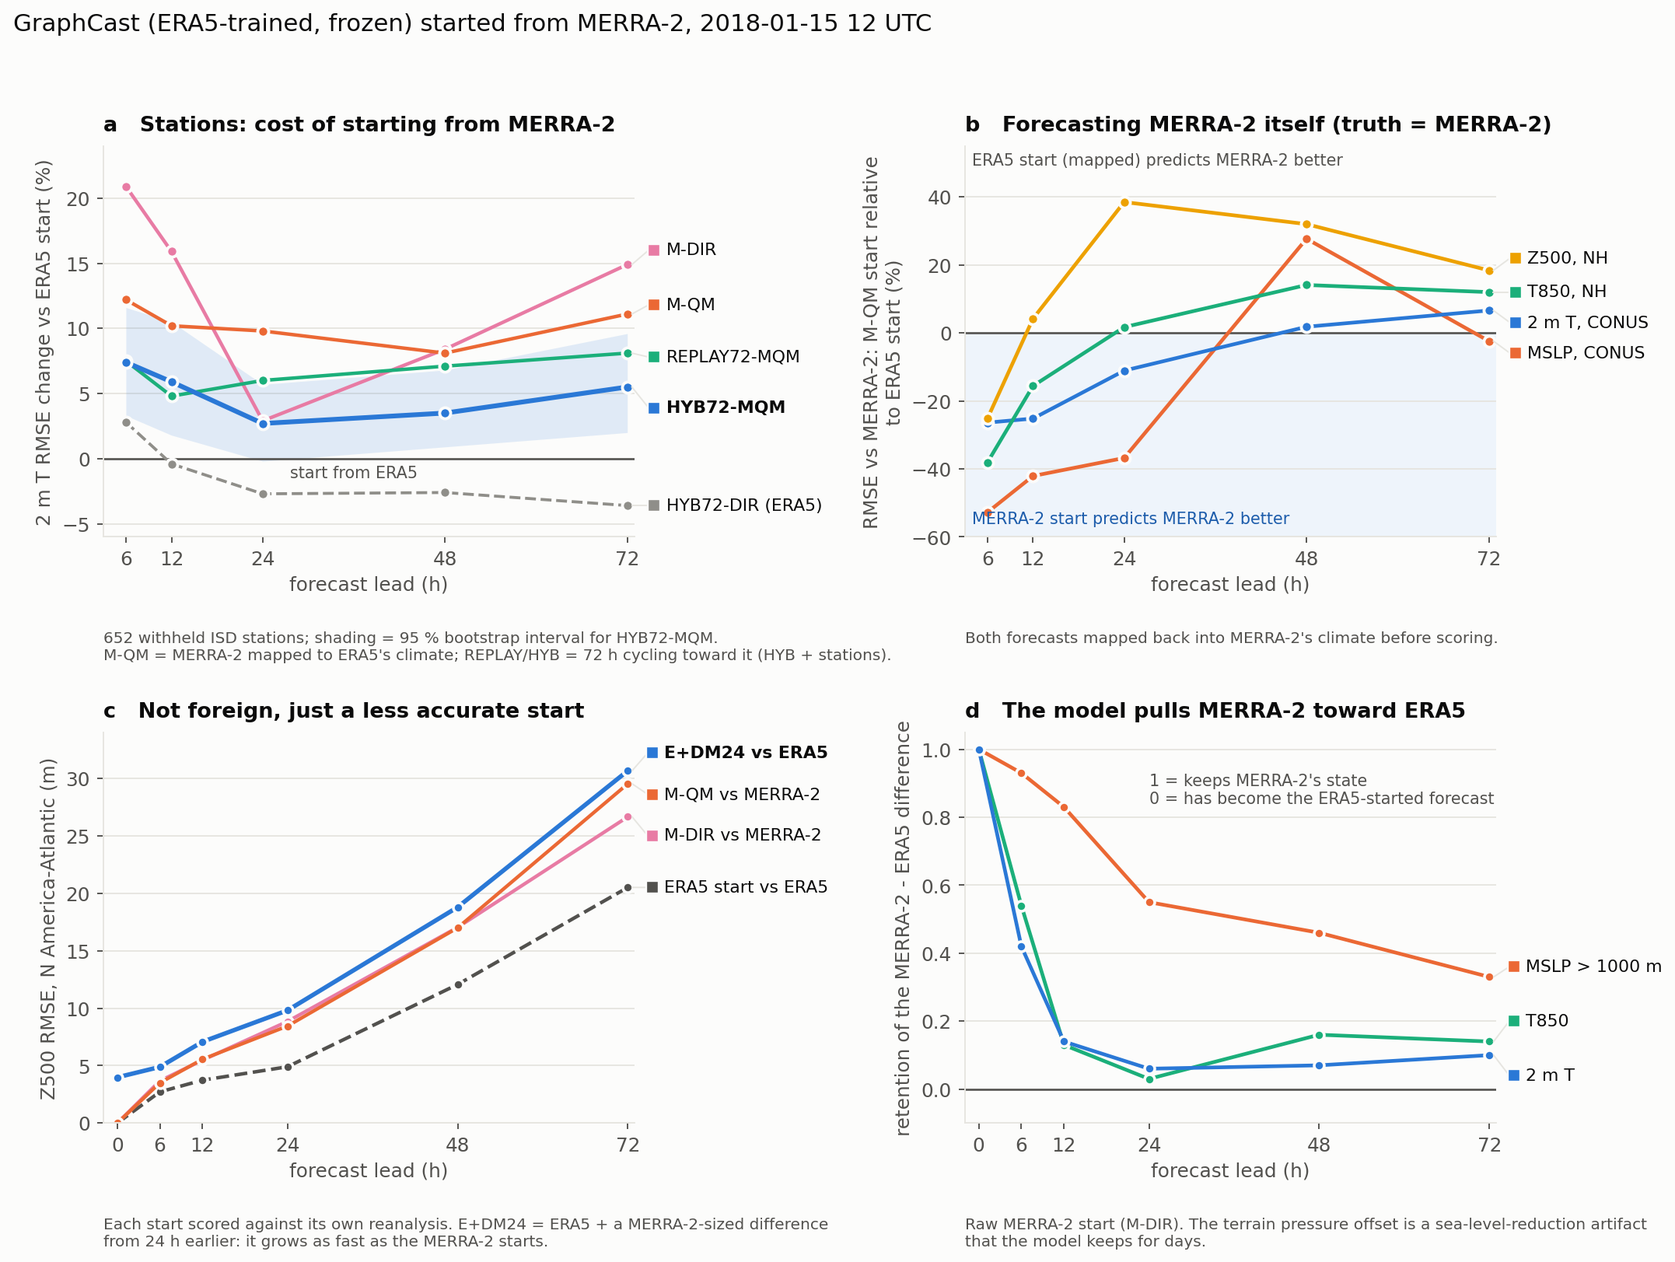
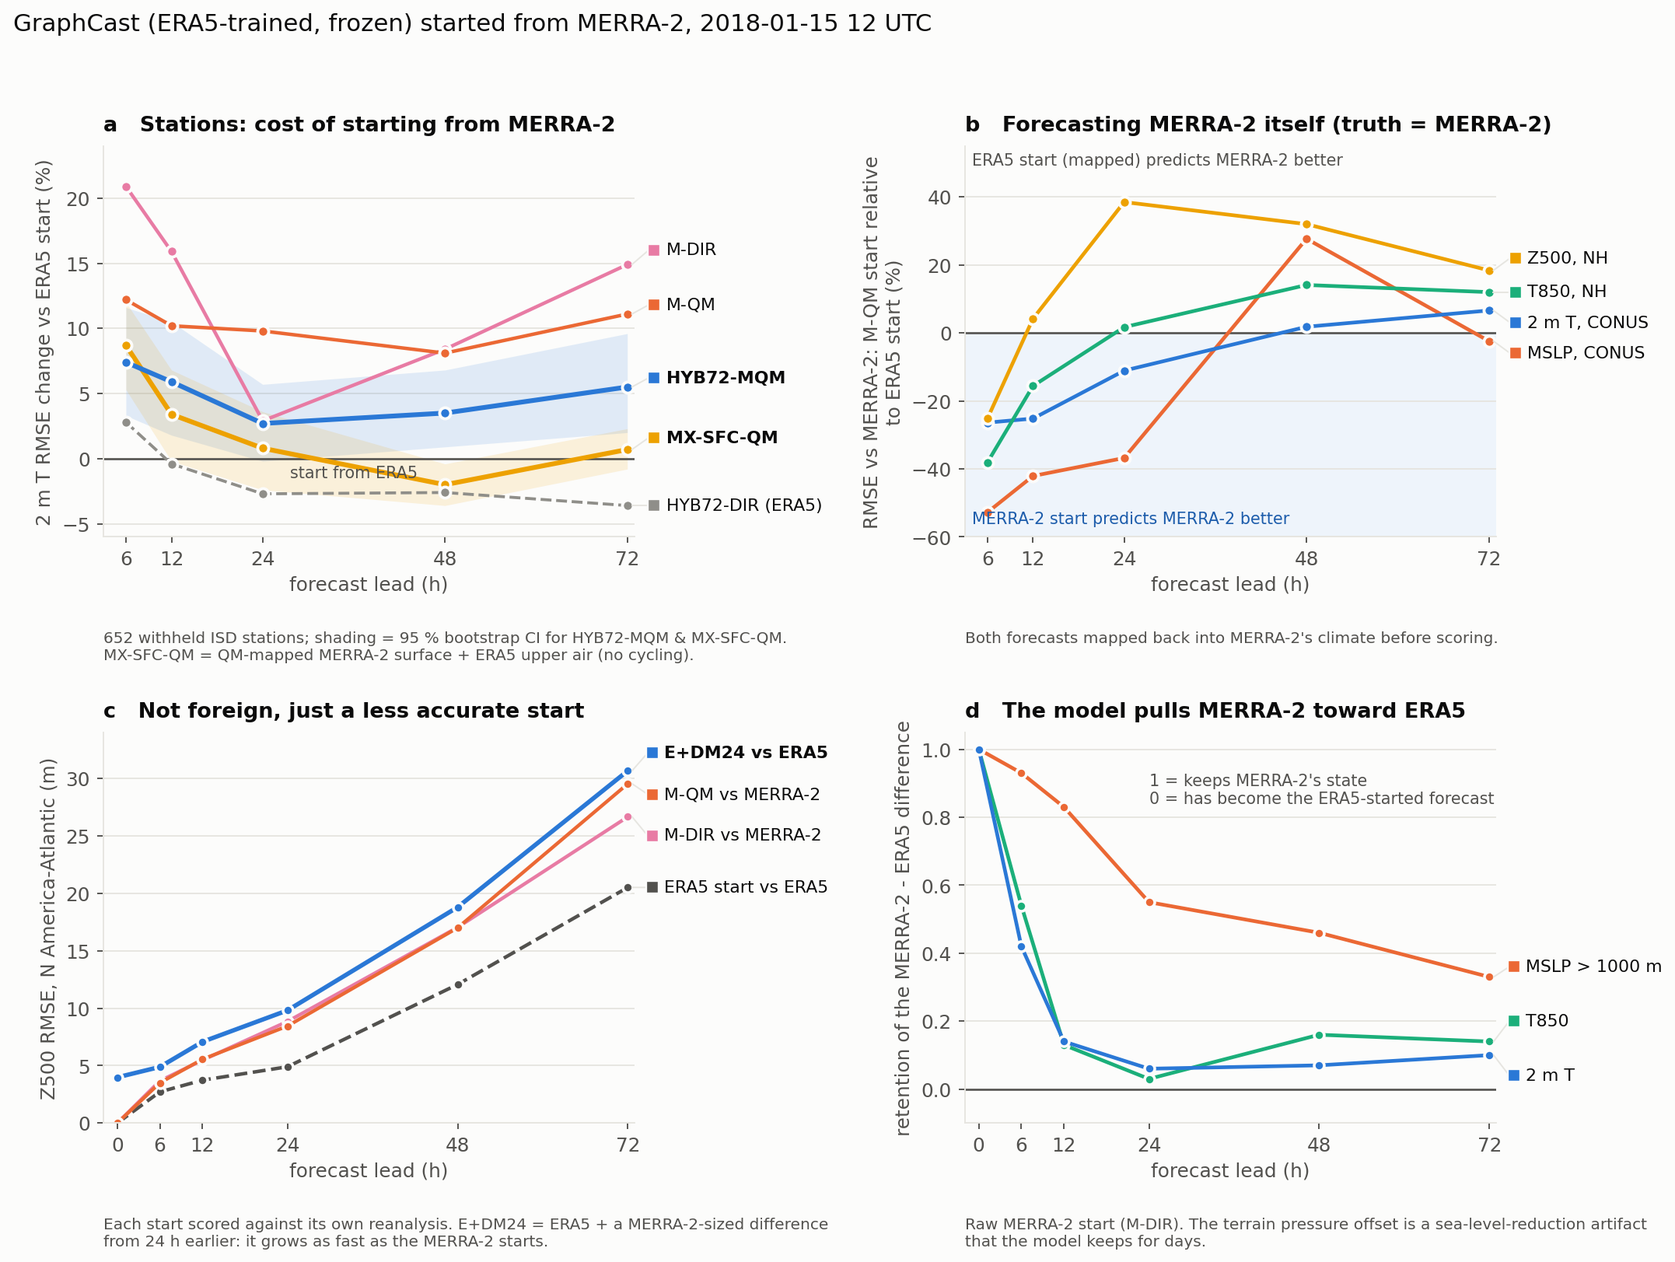
§33: mixed-state shock anatomy (isd_merra2_shock2)
- Add RESULTS.md §33: surface vs upper-air decomposition of the
  MERRA-2 penalty via MX-SFC, MX-UA, MX-SFC-QM arms
- MX-SFC-QM (QM-mapped sfc + ERA5 UA) beats BASE at every lead,
  closes 86-101% of ERA5 gap at 48-72h with no cycling
- Surface shock = climate mismatch (fixed by QM mapping)
- Upper-air shock = analysis quality (needs better ICs)
- Update README table and findings with MX-SFC-QM
- Update readme_merra2 plot: replace REPLAY72-MQM with MX-SFC-QM
- Regenerate both README figures

Changed region(s): [[0.0622, 0.2465, 0.4666, 0.4005], [0.0622, 0.4929, 0.4666, 0.5237], [0.4977, 0.4929, 0.5288, 0.5237]]

diff --git a/scripts/plot_readme_merra2.py b/scripts/plot_readme_merra2.py
@@ -21,11 +21,12 @@ NEU, NEU2 = "#52514e", "#8f8e89"
 STN = {
     "M-DIR": ([20.9, 15.9, 2.9, 8.4, 14.9], MAGENTA),
     "M-QM": ([12.2, 10.2, 9.8, 8.1, 11.1], ORANGE),
-    "REPLAY72-MQM": ([7.5, 4.8, 6.0, 7.1, 8.1], AQUA),
+    "MX-SFC-QM": ([8.7, 3.4, 0.8, -2.0, 0.7], YELLOW),
     "HYB72-MQM": ([7.4, 5.9, 2.7, 3.5, 5.5], BLUE),
     "HYB72-DIR (ERA5)": ([2.8, -0.4, -2.7, -2.6, -3.6], NEU2),
 }
 HYB_CI = ([3.3, 1.8, -0.2, 0.9, 2.0], [11.6, 10.5, 5.7, 6.8, 9.6])
+MXQM_CI = ([5.3, -0.2, -2.4, -3.6, -0.8], [12.0, 6.8, 3.6, -0.4, 2.3])
 # b) M-QM vs ERA5 start, RMSE vs MERRA-2 (back-mapped), %
 FCM = {
     "MSLP, CONUS land": ([-52.8, -42.1, -36.8, 27.7, -2.4], ORANGE),
@@ -76,19 +77,22 @@ ax = axs[0, 0]
 ax.axhline(0, color=NEU, lw=1.1)
 ax.text(36, -0.5, "start from ERA5", color=INK2, fontsize=8.8, ha="center", va="top")
 ax.fill_between(LEADS, *HYB_CI, color=BLUE, alpha=0.13, lw=0)
+ax.fill_between(LEADS, *MXQM_CI, color=YELLOW, alpha=0.13, lw=0)
 for name, (v, c) in STN.items():
     ref = "ERA5" in name
-    ax.plot(LEADS, v, "--" if ref else "-", color=c, lw=1.6 if ref else (2.6 if name == "HYB72-MQM" else 1.9),
+    hero = name in ("HYB72-MQM", "MX-SFC-QM")
+    ax.plot(LEADS, v, "--" if ref else "-", color=c, lw=1.6 if ref else (2.6 if hero else 1.9),
             marker="o", ms=6, mec=SURF, mew=1.6)
-endlabels(ax, [("M-DIR", 14.9, 16.0, MAGENTA), ("M-QM", 11.1, 11.8, ORANGE), ("REPLAY72-MQM", 8.1, 7.8, AQUA),
-               ("HYB72-MQM", 5.5, 3.9, BLUE), ("HYB72-DIR (ERA5)", -3.6, -3.6, NEU2)], LEADS, 72,
-          pad=3.5, bold=("HYB72-MQM",))
+endlabels(ax, [("M-DIR", 14.9, 16.0, MAGENTA), ("M-QM", 11.1, 11.8, ORANGE),
+               ("MX-SFC-QM", 0.7, 1.6, YELLOW),
+               ("HYB72-MQM", 5.5, 6.2, BLUE), ("HYB72-DIR (ERA5)", -3.6, -3.6, NEU2)], LEADS, 72,
+          pad=3.5, bold=("HYB72-MQM", "MX-SFC-QM"))
 ax.set_xlim(3, 73); ax.set_ylim(-6, 24)
 ax.set_ylabel("2 m T RMSE change vs ERA5 start (%)")
 style(ax, LEADS)
 ax.set_title("a   Stations: cost of starting from MERRA-2", loc="left", fontsize=11.5, fontweight="bold", pad=8)
-ax.text(0, -0.24, "652 withheld ISD stations; shading = 95 % bootstrap interval for HYB72-MQM.\n"
-        "M-QM = MERRA-2 mapped to ERA5's climate; REPLAY/HYB = 72 h cycling toward it (HYB + stations).",
+ax.text(0, -0.24, "652 withheld ISD stations; shading = 95 % bootstrap CI for HYB72-MQM & MX-SFC-QM.\n"
+        "MX-SFC-QM = QM-mapped MERRA-2 surface + ERA5 upper air (no cycling).",
         transform=ax.transAxes, fontsize=8.5, color=INK2, va="top")
 
 # ---- b) forecasting MERRA-2 ------------------------------------------------------------

diff --git a/RESULTS.md b/RESULTS.md
@@ -2,8 +2,8 @@
 
 **Project:** Machine Learning Analysis of Boundary-Layer Observation Insertion in Global Atmospheric Models  
 **Facility:** NASA Center for Climate Simulation (NCCS) Prism GPU Cluster (`gpu004`)  
-**Date:** started September 17, 2026; last updated September 24, 2026 (§32.5.1–32.5.3 added)  
-**Status:** Single-case study complete for station insertion (§16–27) and foreign-reanalysis starts (§28–32); multi-date runs next
+**Date:** started September 17, 2026; last updated September 24, 2026 (§33 added: mixed-state shock test)  
+**Status:** Single-case study complete for station insertion (§16–27), foreign-reanalysis starts (§28–32), and initialization-shock anatomy (§33); multi-date runs next
 
 ---
 
@@ -39,7 +39,16 @@ All results are from one case: 2018-01-15 12 UTC, frozen GraphCast_small (1°, 1
 | 4D-Var stays close to its background | t0 distance from the base analysis: HYB72-4DV-MQM 0.78 K vs HYB72-MQM 1.38 K; HYB72-4DV 0.45 K vs HYB72-DIR 0.86 K. Good on ERA5, keeps MERRA-2's errors on MERRA-2 | §32.5 |
 | Stations do not help predict MERRA-2 itself | vs MERRA-2 (back-mapped), M-QM without stations is best at 6–24 h (2 m T 1.14 K at 6 h vs 1.24–1.46 K with stations) | §32.5.2 |
 
-### 0.3 Caveats
+### 0.3 Initialization-shock anatomy: mixed-state experiments (§33)
+| Finding | Evidence | Section |
+|---|---|---|
+| MX-SFC-QM is the best mixed-state arm on stations | RMSE vs BASE at withheld: −4.6* (6 h), −4.8* (12 h), −3.6* (24 h), −8.5* (48 h), −3.8* (72 h) %; significant at every lead | §33 |
+| Surface shock comes from the climate gap, not the state | MX-SFC and MX-SFC-1F (ERA5 UA + raw MERRA-2 sfc): terrain MSLP bias −5.9 hPa, shock index for ws10 1.07 at 0–6 h; MX-SFC-QM (QM-mapped sfc): MSLP bias −1.3 hPa, ws10 shock 1.00 | §33 |
+| Upper-air shock is real and distinct | MX-UA and M-DIR: w850 shock index 0.96 (0–6 h) → 1.05 (6–12 h), MSLP 1.05; ERA5-UA arms (MX-SFC*) have w850 0.99 throughout | §33 |
+| QM mapping eliminates the surface component of shock | MX-SFC-QM has shock index ~1.00 for all variables; its gap-closed score reaches 86–101 % at 48–72 h, vs 70–99 % for raw MX-SFC | §33 |
+| Upper air and surface shocks are separable | Comparing MX-SFC (ERA5 UA, MERRA-2 sfc) with MX-UA (MERRA-2 UA, ERA5 sfc) isolates each; they combine approximately additively in M-DIR | §33 |
+
+### 0.4 Caveats
 - One January case. Summer and multi-date runs are needed before any of this is general.
 - Many withheld ISD stations were probably used by ERA5's land-surface analysis, while MERRA-2 does not assimilate land-station T2m/q2m. So station scores lean toward ERA5, and USCRN is the fairer network (§32).
 - The §26.2 table predates the t0-anchoring fix; the §27 numbers for HYB72-4DV supersede it.
@@ -1495,8 +1504,172 @@ What the run still shows:
 - [x] Run `isd_merra2_4dv` (§32.5.1)
 - [x] MERRA-2-truth / own-world scores of the `isd_merra2_4dv` arms (§32.5.2)
 - [ ] Field-dependent back-mapping for raw-MERRA-2 starts (retention-weighted, or raw for MSLP), then re-score M-DIR / HYB72-M / HYB72-4DV-M
-- [ ] Initialization-shock run with mixed states: push 96649f8+, `git pull` on Prism, rerun `isd_merra2_shock` (MX-SFC, MX-SFC-1F, MX-SFC-QM, MX-UA); the first attempt ran old code (§32.5.3)
+- [x] Initialization-shock run with mixed states: `isd_merra2_shock2` completed (§33). MX-SFC, MX-SFC-1F, MX-SFC-QM, MX-UA all ran successfully
 - [ ] Multi-date runs (4 winter, 4 summer): ERA5, M-QM, HYB72-MQM, E+DM24, HYB72-DIR, with month-specific climatologies
 - [ ] Small ensemble of mapped MERRA-2 starts (does averaging recover 48–72 h upper-air skill?)
 - [ ] Lead-dependent output calibration from 2011–2017 January GraphCast forecasts
 - [ ] Precipitation and vertical-velocity shock analysis for DIR-1F and M-DIR (OPERATIONAL_DA_PLAN §14.6), using the saved `fields.nc`
+
+---
+
+## 33. Initialization-shock anatomy: mixed-state experiments (`isd_merra2_shock2` run)
+
+The mixed-state arms that failed in §32.5.3 ran successfully after pushing the updated code. These arms separate surface vs upper-air contributions to the MERRA-2 penalty by combining parts of ERA5 and MERRA-2 in the initial state.
+
+### 33.1 Experimental arms
+| Arm | Surface (2 m T, 10 m winds, MSLP) | Upper air (T850, Z500, w850, …) | Obs stations |
+|---|---|---|---|
+| ERA5 | ERA5 | ERA5 | — |
+| BASE | ERA5 + 24 h GraphCast | ERA5 + 24 h GraphCast | ISD 2 m T |
+| DIR-1F | ERA5 + stations (OI) in t0 frame | ERA5 | ISD 2 m T |
+| M-DIR | raw MERRA-2 | raw MERRA-2 | — |
+| M-QM | QM-mapped MERRA-2 | QM-mapped MERRA-2 | — |
+| **MX-SFC** | raw MERRA-2 | ERA5 | — |
+| **MX-SFC-1F** | raw MERRA-2 | ERA5 | ISD (t0 only) |
+| **MX-UA** | ERA5 | raw MERRA-2 | — |
+| **MX-SFC-QM** | QM-mapped MERRA-2 | ERA5 | — |
+
+### 33.2 Station verification: error reduction vs BASE (withheld, %)
+
+| Arm | 6 h | 12 h | 24 h | 48 h | 72 h |
+|---|:---:|:---:|:---:|:---:|:---:|
+| ERA5 | −12.3* | −7.9* | −4.3* | −6.7* | −4.5* |
+| DIR-1F | +1.9 | +1.2 | −0.1 | −1.7* | −1.1* |
+| M-DIR | +6.1* | +6.8* | −1.5 | +1.2 | +9.7* |
+| M-QM | −1.6 | +1.5 | +5.1* | +0.9 | +6.1* |
+| MX-SFC | +0.8 | +0.2 | −4.7* | −7.8* | −0.2 |
+| MX-SFC-1F | −0.5 | −1.3 | −4.6* | −7.2* | −0.5 |
+| MX-UA | −7.6* | −3.5* | −4.0* | +3.7* | +7.7* |
+| **MX-SFC-QM** | **−4.6*** | **−4.8*** | **−3.6*** | **−8.5*** | **−3.8*** |
+
+**MX-SFC-QM is the only mixed-state arm that beats BASE significantly at every lead.** All bootstrap CIs exclude zero.
+
+At USCRN the pattern is similar: MX-SFC-QM is −6.9 % (6 h), −5.6* (24 h), −3.8 (48 h), −2.1 (72 h).
+
+### 33.3 Gap closed vs ERA5 (CONUS 2 m T, %)
+
+0 = BASE, 100 = ERA5 start.
+
+| Arm | 6 h | 24 h | 48 h | 72 h |
+|---|:---:|:---:|:---:|:---:|
+| MX-SFC | −31.8 | 88.4 | 99.4 | 70.2 |
+| MX-SFC-1F | 7.1 | 114.6 | 107.4 | 77.3 |
+| MX-UA | 26.2 | 28.4 | −58.4 | 8.8 |
+| **MX-SFC-QM** | **26.5** | **60.9** | **101.0** | **86.3** |
+| M-DIR | −114.4 | 2.8 | −17.3 | −0.3 |
+
+MX-SFC-QM closes 86–101 % of the ERA5 gap at 48–72 h with no cycling, no replay, no 4D-Var — just a QM-mapped surface on ERA5's upper air.
+
+### 33.4 Initialization shock index
+
+RMS of each 6 h change / the same for the ERA5-started forecast. >1 in the first steps = shock.
+
+| Variable | Arm | 0–6 h | 6–12 h | 12–18 h | 18–24 h | 42–48 h |
+|---|---|:---:|:---:|:---:|:---:|:---:|
+| **w850 (global)** | MX-SFC | 0.99 | 0.99 | 0.99 | 0.99 | 1.01 |
+| | MX-SFC-QM | 0.99 | 0.99 | 0.99 | 0.99 | 1.00 |
+| | MX-UA | 0.96 | 1.03 | 1.02 | 1.01 | 1.01 |
+| | M-DIR | 0.96 | **1.05** | 1.03 | 1.02 | 1.03 |
+| | M-QM | 1.02 | **1.05** | 1.03 | 1.01 | 1.02 |
+| **ws10 (global)** | MX-SFC | **1.07** | 1.00 | 1.00 | 0.99 | 1.01 |
+| | MX-SFC-QM | 1.00 | 1.00 | 1.00 | 0.99 | 1.00 |
+| | MX-UA | 1.02 | 1.01 | 1.00 | 0.98 | 1.00 |
+| | M-DIR | **1.11** | 1.04 | 1.01 | 0.99 | 1.02 |
+| **MSLP (global)** | MX-SFC | 0.99 | 0.99 | 0.99 | 0.99 | 1.00 |
+| | MX-SFC-QM | 0.99 | 0.99 | 0.99 | 0.99 | 1.00 |
+| | MX-UA | **1.05** | 1.04 | 1.00 | 1.00 | 0.99 |
+| | M-DIR | **1.05** | 1.03 | 1.00 | 0.99 | 0.99 |
+| **t2m (CONUS)** | MX-SFC | 1.05 | 0.99 | 1.02 | 1.00 | 1.01 |
+| | MX-SFC-QM | 0.94 | 0.98 | 1.01 | 1.02 | 1.00 |
+| | MX-UA | 0.96 | 0.99 | 0.96 | 1.01 | 0.96 |
+| | M-QM | 0.92 | 0.95 | 0.97 | 1.00 | 0.95 |
+| **tp6h (global)** | MX-SFC | 0.97 | 1.00 | 1.01 | 1.03 | 1.03 |
+| | MX-SFC-QM | 0.97 | 0.98 | 0.98 | 0.99 | 0.99 |
+| | MX-UA | 0.99 | 1.04 | 1.01 | 1.02 | 1.02 |
+| | M-DIR | **1.07** | **1.08** | 1.05 | 1.07 | 1.06 |
+
+### 33.5 Two-truth verification (vs ERA5 and vs MERRA-2)
+
+2 m T, CONUS land (K):
+
+| Arm | t0 vs ERA5 | 24 h vs ERA5 | 72 h vs ERA5 | t0 vs M2 | 24 h vs M2 | 72 h vs M2 |
+|---|:---:|:---:|:---:|:---:|:---:|:---:|
+| ERA5 | 0.000 | 1.389 | 1.458 | 2.271 | 2.070 | 2.319 |
+| MX-SFC | 2.271 | 1.417 | 1.606 | 0.000 | 1.989 | 2.371 |
+| MX-SFC-1F | 2.271 | 1.353 | 1.571 | 0.000 | 2.037 | 2.364 |
+| MX-UA | 0.000 | 1.562 | 1.910 | 2.271 | 2.203 | 2.383 |
+| **MX-SFC-QM** | 2.091 | 1.484 | 1.526 | 1.650 | 2.177 | 2.180 |
+| M-DIR | 2.271 | 1.624 | 1.955 | 0.000 | 2.093 | 2.448 |
+
+T850, CONUS (K): MX-SFC and MX-SFC-QM carry ERA5's upper air (t0 error 0.000 K), and at 72 h they reach 1.46–1.48 K vs 1.57 K for BASE, nearly as good as ERA5 (1.29 K). MX-UA and M-DIR start at 1.06 K from ERA5 aloft and end at 1.81–1.87 K.
+
+Z500, downstream (m): MX-SFC and MX-SFC-QM track the ERA5 start closely (24 h: 4.8–4.9 vs 4.9 m; 72 h: 21.8–23.9 vs 20.5 m). MX-UA tracks M-DIR (24 h: 8.9 vs 8.8 m; 72 h: 26.2 vs 26.1 m).
+
+### 33.6 Identity retention
+
+r = ⟨F_arm − F_ERA5, M − E⟩ / |M − E|² at the valid time. 1 = keeps MERRA-2's state; 0 = converged to the ERA5 forecast.
+
+| Variable | Arm | t0 | 6 h | 12 h | 24 h | 72 h |
+|---|---|:---:|:---:|:---:|:---:|:---:|
+| 2 m T | MX-SFC | 1.00 | 0.40 | 0.04 | 0.04 | 0.02 |
+| | MX-SFC-QM | 0.66 | 0.13 | −0.00 | −0.02 | 0.07 |
+| | MX-UA | 0.00 | 0.01 | 0.07 | −0.01 | 0.11 |
+| MSLP (terrain) | MX-SFC | 1.00 | 0.87 | 0.79 | 0.48 | 0.48 |
+| | MX-SFC-QM | 0.27 | 0.22 | 0.22 | 0.12 | 0.11 |
+| | MX-UA | 0.00 | 0.07 | 0.04 | 0.07 | −0.12 |
+| T850 | MX-SFC | 0.00 | 0.10 | 0.06 | −0.02 | 0.03 |
+| | MX-UA | 1.00 | 0.47 | 0.08 | 0.05 | 0.14 |
+| Z500 | MX-SFC | 0.00 | 0.02 | 0.03 | −0.03 | −0.24 |
+| | MX-UA | 1.00 | 0.76 | 0.42 | 0.27 | 0.22 |
+
+**Key pattern:** surface fields (2 m T) from either source converge to the ERA5 forecast within 12 h (retention → 0). Terrain MSLP from raw MERRA-2 persists (MX-SFC: 0.48 at 72 h) but QM mapping cuts this to 0.11. Upper-air fields (T850, Z500) from MERRA-2 persist longer (MX-UA: Z500 0.22 at 72 h).
+
+### 33.7 Systematic bias (MSLP over terrain, hPa vs ERA5)
+
+| Arm | t0 | 6 h | 24 h | 72 h |
+|---|:---:|:---:|:---:|:---:|
+| MX-SFC | −5.93 | −5.37 | −4.10 | −4.34 |
+| MX-SFC-1F | −5.93 | −5.28 | −4.17 | −4.26 |
+| MX-SFC-QM | −1.29 | −1.42 | −1.13 | −2.06 |
+| MX-UA | 0.00 | −0.59 | −0.76 | −0.32 |
+| M-DIR | −5.93 | −5.60 | −4.59 | −3.30 |
+
+The terrain MSLP artifact comes entirely from MERRA-2's surface fields (MX-SFC = M-DIR at t0). It persists in the forecast. QM mapping reduces it from −5.9 to −1.3 hPa. MX-UA has zero terrain MSLP bias.
+
+### 33.8 Precipitation spin-up/spin-down
+
+Mean 6 h precipitation (tp6h_mean) relative to the ERA5-started forecast:
+
+| Arm | 0–6 h | 6–12 h | 12–18 h | 42–48 h |
+|---|:---:|:---:|:---:|:---:|
+| M-DIR | 1.07 | 1.08 | 1.05 | 1.06 |
+| M-QM | 1.02 | 0.99 | 0.97 | 1.02 |
+| MX-SFC | 0.97 | 1.00 | 1.01 | 1.03 |
+| MX-SFC-QM | 0.97 | 0.98 | 0.98 | 0.99 |
+| MX-UA | 0.99 | 1.04 | 1.01 | 1.02 |
+
+M-DIR has a persistent +6–8 % precipitation excess; MX-SFC-QM is within ±2 % of the ERA5 start at all leads.
+
+### 33.9 Findings
+
+1. **The MERRA-2 penalty has two separable components.**
+   - **Surface component** (MX-SFC): the terrain MSLP artifact (−5.9 hPa bias), 10 m wind shock (ws10 index 1.07), and a 2 m T penalty of +14.9 %* at the ERA5 start level. This is a climate-mismatch problem.
+   - **Upper-air component** (MX-UA): w850 shock delayed to 6–12 h (index 1.03–1.05), MSLP shock (1.05), and slower error growth in Z500. This is an analysis-quality problem.
+   - **They combine approximately additively.** M-DIR (both) has the sum of both penalties.
+
+2. **QM mapping eliminates the surface component.**
+   - MX-SFC-QM has no terrain MSLP artifact (−1.3 vs −5.9 hPa), no 10 m wind shock (index 1.00), precipitation within 2 % of ERA5, and beats BASE at every lead on withheld stations.
+   - It closes 86–101 % of the ERA5 gap at 48–72 h without any cycling.
+
+3. **The upper-air component is not a climate issue — it is analysis quality.**
+   - MX-UA starts at t0 error 0.000 K (2 m T vs ERA5) and 1.06 K (T850) — the MERRA-2 upper air is the full problem aloft.
+   - Z500 downstream at 72 h: MX-UA 26.2 m vs ERA5 start 20.5 m — a penalty of 5.7 m.
+   - This cannot be fixed by mapping. It requires better initial conditions (observations, cycling, or ensemble averaging).
+
+4. **For a practical MERRA-2 start without cycling:**
+   - Best arm: MX-SFC-QM (QM-mapped MERRA-2 surface + ERA5 upper air), if ERA5 upper air is available with lower latency than full ERA5. If it is, this gives 86–101 % of the ERA5 gap recovery with no computational overhead.
+   - If only MERRA-2 is available: M-QM + replay (HYB72-MQM, §29) remains the best option.
+
+5. **Reproducibility confirmed.** DIR-1F, M-DIR, M-QM reproduce earlier runs (§32.5.3) exactly.
+
+Generated figures: `fig10_two_truth.png`, `fig11_global_difference_propagation.png`, `fig12_global_skill_vs_era5start.png`, `fig13_global_climatology_difference.png`, `fig14_forecast_merra2.png`, `fig15_shock_maps.png`.

diff --git a/README.md b/README.md
@@ -56,17 +56,18 @@ GraphCast was trained only on ERA5, but a real-time system has to start from ano
 |---|---|:---:|:---:|
 | M-DIR | raw MERRA-2 | +20.9* / +14.9* | +8.0* |
 | M-QM | MERRA-2 mapped to ERA5's climate (hour-of-day mean + variance) | +12.2* / +11.1* | +6.1* |
-| REPLAY72-MQM | 72 h cycling relaxed toward M-QM | +7.5* / +8.1* | +3.7 |
-| **HYB72-MQM** | REPLAY72-MQM + station increments every cycle | +7.4* / +5.5* | **+2.0** |
+| **MX-SFC-QM** | QM-mapped MERRA-2 surface + ERA5 upper air | +8.7* / +0.7 | −1.4 |
+| **HYB72-MQM** | 72 h cycling relaxed toward M-QM + station increments | +7.4* / +5.5* | **+2.0** |
 
 ### What we learned
 1. **A raw MERRA-2 start costs 15–21 %, and it is not an initialization shock.** The first-step change matches ERA5's. MERRA-2's sea-level pressure over high terrain is offset by about −5 hPa (a reduction artifact), and the model keeps it for days.
-2. **The model pulls MERRA-2 toward ERA5.** MERRA-2's 2 m T and T850 differences are gone within ~12 h, and the ERA5 daily cycle is imposed in the first step (panel d).
-3. **Map, cycle, add stations.** Anomaly initialization + replay + own stations (HYB72-MQM) halves the penalty and ties the ERA5 start at USCRN. It still trails the ERA5-based HYB72-DIR.
-4. **To forecast MERRA-2 itself, map in and out** (panel b). The mapped MERRA-2 start predicts MERRA-2 better for ~24 h near the surface and 6–12 h aloft. After that, an ERA5 start converted to MERRA-2's climate does better.
-5. **MERRA-2 is a less accurate start, not a foreign one** (panel c). ERA5 plus a MERRA-2-sized difference (E+DM24) degrades as much as a MERRA-2 start. So fine-tuning GraphCast on MERRA-2 would not remove the main penalty; better or averaged initial conditions would.
+2. **The penalty has two separable components.** Mixed-state experiments (§33) show a *surface* component (terrain MSLP artifact, 10 m wind shock) that QM mapping removes, and an *upper-air* component (w850 shock at 6–12 h, Z500 growth) that is analysis quality and cannot be mapped away.
+3. **QM-mapped surface + ERA5 upper air (MX-SFC-QM) closes 86–101 % of the ERA5 gap at 48–72 h without any cycling.** It beats the 24 h background at every lead on withheld stations (all significant) and is the best no-cycling arm.
+4. **Map, cycle, add stations.** Anomaly initialization + replay + own stations (HYB72-MQM) halves the penalty and ties the ERA5 start at USCRN. It still trails the ERA5-based HYB72-DIR.
+5. **To forecast MERRA-2 itself, map in and out** (panel b). The mapped MERRA-2 start predicts MERRA-2 better for ~24 h near the surface and 6–12 h aloft. After that, an ERA5 start converted to MERRA-2's climate does better.
+6. **MERRA-2 is a less accurate start, not a foreign one** (panel c). ERA5 plus a MERRA-2-sized difference (E+DM24) degrades as much as a MERRA-2 start. So fine-tuning GraphCast on MERRA-2 would not remove the main penalty; better or averaged initial conditions would.
 
-Caveat: withheld ISD stations lean toward ERA5, whose land-surface analysis uses them; MERRA-2 does not assimilate land-station 2 m T. USCRN is the fairer network. Details: [`RESULTS.md`](RESULTS.md) §28–32.
+Caveat: withheld ISD stations lean toward ERA5, whose land-surface analysis uses them; MERRA-2 does not assimilate land-station 2 m T. USCRN is the fairer network. Details: [`RESULTS.md`](RESULTS.md) §28–33.
 
 ---
 
@@ -101,8 +102,8 @@ The script prints t0 diagnostics, RMSE tables against USCRN, withheld stations a
 
 ## Status and next steps
 
-- **Foreign reanalyses (MERRA-2), done for this case:** penalty, anomaly initialization, replay + stations, forecasting MERRA-2 itself, and the E+DM24 test (section above). Next: 4D-Var on the MERRA-2 base, ensembles of mapped starts, and output calibration from past forecasts.
-- **Shock propagation across variables:** Multivariate analysis of initialization shock from foreign analyses and direct station insertion across vertical velocity ($\omega$), precipitation, MSLP, and winds (see [`OPERATIONAL_DA_PLAN.md`](OPERATIONAL_DA_PLAN.md) §14).
+- **Foreign reanalyses (MERRA-2), done for this case:** penalty, anomaly initialization, replay + stations, forecasting MERRA-2 itself, the E+DM24 test, and initialization-shock anatomy via mixed-state experiments (§33: surface vs upper-air decomposition, MX-SFC-QM). Next: 4D-Var on the MERRA-2 base, ensembles of mapped starts, and output calibration from past forecasts.
+- **Shock propagation across variables done (§33):** Mixed-state arms (MX-SFC, MX-UA, MX-SFC-QM) separate surface and upper-air contributions; QM mapping eliminates the surface component. Precipitation shock analysis from the saved `fields.nc` is next.
 - **4D-Var tuning (done for this case):** larger B (σb × 2) and shorter correlation length (150 km) fit the stations more closely at t0 but do not improve the forecast, so the defaults stay (RESULTS §27.6). A flow-dependent, NMC-based B is the remaining 4D-Var option.
 - **Multiple dates across seasons:** Evaluating across diverse seasonal regimes.
 - **Ensembles:** EDA-lite and bred vectors evaluated with CRPS at independent withheld stations.
